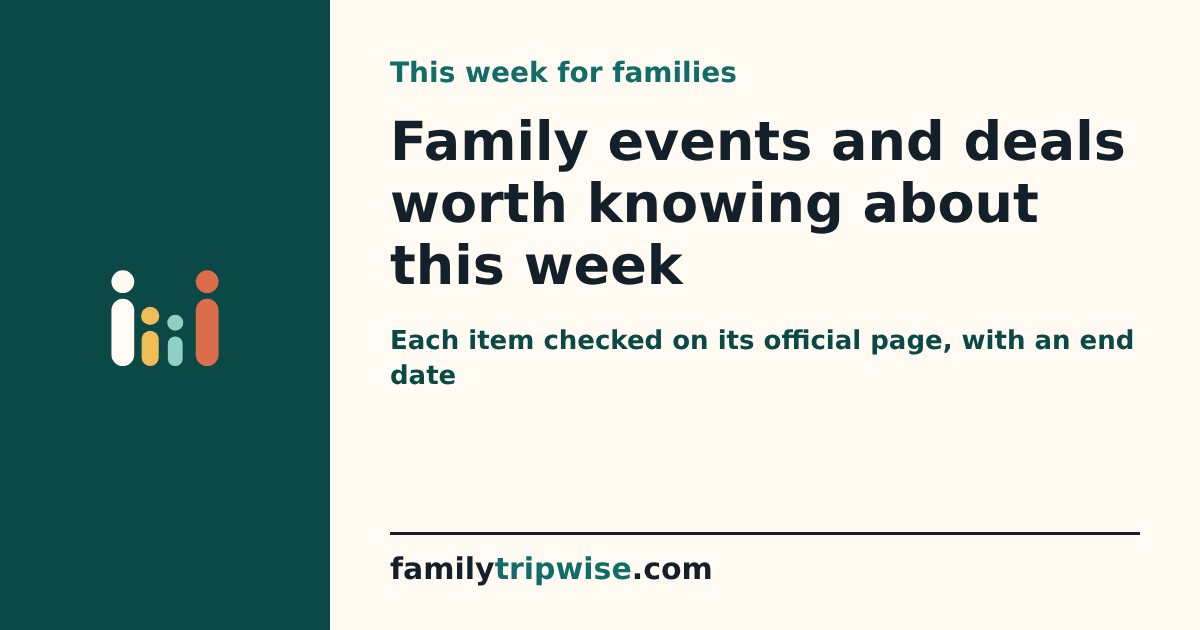
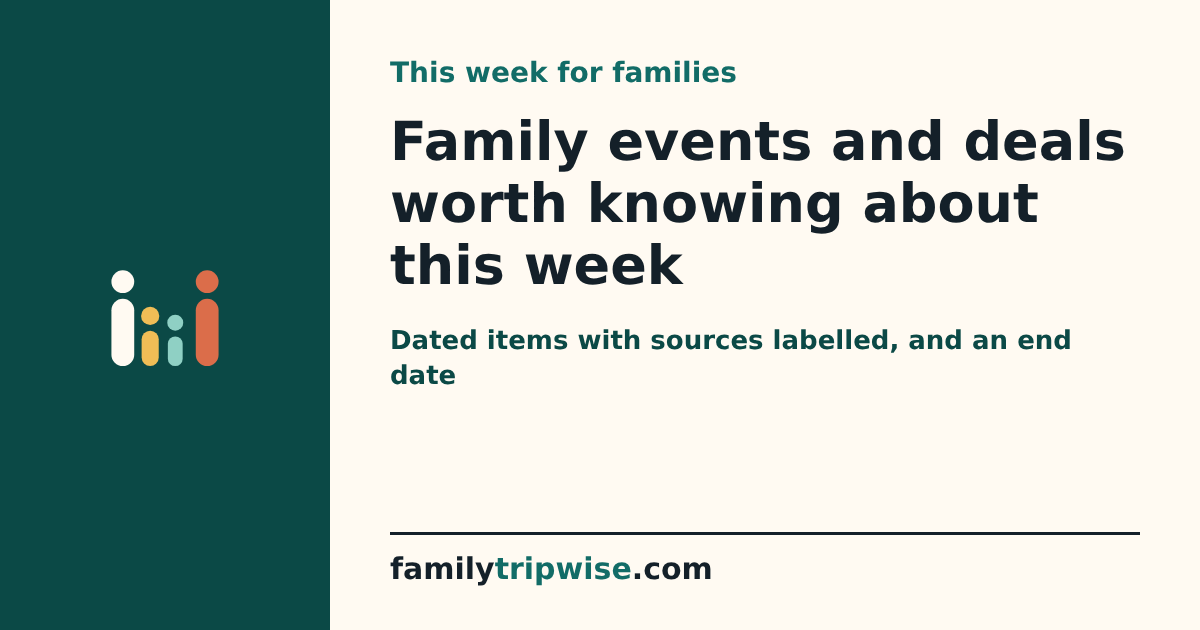
G16: Dyker Heights lights on NYC Christmas page and /this-week/ (third-party labelled); this-week claims now say sources are labelled
Claude-Session: https://claude.ai/code/session_018uWk6vQfyhGcm8KHGVirtx

Changed region(s): [[0.3083, 0.5127, 0.9558, 0.573]]

diff --git a/site/holidays/new-york-city-christmas-with-kids.html b/site/holidays/new-york-city-christmas-with-kids.html
@@ -25,7 +25,7 @@
       <section class="page-hero">
         <div class="container">
           <p class="eyebrow">New York City · Christmas with kids</p>
-          <h1>Christmas in New&nbsp;York&nbsp;City With Kids: 8&nbsp;Outings and What They Cost a Family of 4</h1>
+          <h1>Christmas in New&nbsp;York&nbsp;City With Kids: 9&nbsp;Outings and What They Cost a Family of 4</h1>
           <p>Dates, what's free and ticket costs for 2 adults and 2 kids.</p>
           <p class="contributor-credit">Researched with AI (<a href="../contributors/miles-rowan.html">Miles Rowan</a>) · sources linked and dated · <a href="../about.html">How we check</a></p>
         </div>
@@ -34,7 +34,7 @@
         <p class="holiday-answer-figure"><span>Paid outings: tickets for 4, per outing</span><strong>≈ $88 to $144</strong><small>estimate from published prices for 3 outings, so not Radio City (no price found) or skate rentals; tax, fees or parking can add more.</small></p>
         <ul>
           <li><strong>Our pick for under 6:</strong> <a href="#nybg-train-show">NYBG Holiday Train Show</a>, model trains in a glass conservatory; check the show price for your date</li><li><strong>In December, no ticket listed:</strong> <a href="#rockefeller-tree">Rockefeller Center tree</a>, Dec 2 to Jan 9; end date per NY1</li>
-          <li><strong>Free:</strong> <a href="#vessel-lighting">Vessel holiday lighting</a>, Nov&nbsp;16; <a href="#macys-parade">Macy&#39;s Thanksgiving Day Parade</a>, Nov&nbsp;26</li>
+          <li><strong>Free:</strong> <a href="#vessel-lighting">Vessel holiday lighting</a>, Nov&nbsp;16; <a href="#macys-parade">Macy&#39;s Thanksgiving Day Parade</a>, Nov&nbsp;26; <a href="#dyker-heights-lights">Dyker Heights Christmas lights</a>, from about Nov 27</li>
           <li><strong>Free with your own skates:</strong> <a href="#bryant-park-rink">Bryant Park ice rink</a></li>
           
         </ul>
@@ -47,10 +47,10 @@
       </section>
       <section class="container holiday-news" aria-label="New this season">
         <h2 class="holiday-news-title">New this season</h2>
-        <ul><li><a href="#rockefeller-tree">Meet the Tree Day</a>: free, Nov 7, Care Bears and crafts 10 a.m. to 1 p.m., first come, per Rockefeller Center.</li><li><a href="#bronx-zoo">Bronx Zoo Farmyard</a>: the Children&#39;s Zoo Farmyard opens for the lights, new this year.</li><li><a href="#macys-parade">Macy&#39;s parade</a>: the 100th, Nov 26, with a record 100 inflatables, per NYC Tourism.</li></ul>
+        <ul><li><a href="#dyker-heights-lights">Dyker Heights lights</a>: free to walk in Brooklyn, expected on from Nov 27, turning 40 per a Secret NYC headline.</li><li><a href="#rockefeller-tree">Meet the Tree Day</a>: free, Nov 7, Care Bears and crafts 10 a.m. to 1 p.m., first come, per Rockefeller Center.</li><li><a href="#bronx-zoo">Bronx Zoo Farmyard</a>: the Children&#39;s Zoo Farmyard opens for the lights, new this year.</li><li><a href="#macys-parade">Macy&#39;s parade</a>: the 100th, Nov 26, with a record 100 inflatables, per NYC Tourism.</li></ul>
       </section>
       <section class="container page-section" aria-labelledby="holiday-table-title">
-        <h2 id="holiday-table-title">Compare the 8 outings, free first</h2>
+        <h2 id="holiday-table-title">Compare the 9 outings, free first</h2>
         <div class="holiday-table-wrap">
           <table class="holiday-table holiday-table-city">
             <caption><span>Family of 4: 2 adults + 2 kids, ages 3 to 11. Estimates, not quotes; tax, fees or parking may be added, see each card. Travel and food not counted.</span></caption>
@@ -58,6 +58,7 @@
             <tbody>
               <tr><th scope="row"><a href="#vessel-lighting">Vessel holiday lighting</a><small>Hudson Yards, Manhattan</small><small class="holiday-when-inline">Nov&nbsp;16</small></th><td class="holiday-when">Nov&nbsp;16</td><td class="holiday-cost">Free</td></tr>
               <tr><th scope="row"><a href="#macys-parade">Macy&#39;s Thanksgiving Day Parade</a><small>Central Park West at W 77th St to Herald Square, Manhattan</small><small class="holiday-when-inline">Nov&nbsp;26</small></th><td class="holiday-when">Nov&nbsp;26</td><td class="holiday-cost">Free</td></tr>
+              <tr><th scope="row"><a href="#dyker-heights-lights">Dyker Heights Christmas lights</a><small>Dyker Heights, Brooklyn: around 83rd to 86th Streets, 11th to 13th Avenues</small><small class="holiday-when-inline">From about Nov 27, no official dates</small></th><td class="holiday-when">From about Nov 27, no official dates</td><td class="holiday-cost">Free</td></tr>
               <tr><th scope="row"><a href="#bryant-park-rink">Bryant Park ice rink</a><small>Winter Village, Midtown Manhattan</small><small class="holiday-when-inline">Oct&nbsp;28 to Feb&nbsp;28</small></th><td class="holiday-when">Oct&nbsp;28 to Feb&nbsp;28</td><td class="holiday-cost">Free with your own skates<small>rentals ≈ $75 to $258</small></td></tr>
               <tr><th scope="row"><a href="#rockefeller-tree">Rockefeller Center tree</a><small>Midtown Manhattan</small><small class="holiday-when-inline">Dec&nbsp;2 to Jan&nbsp;9, end date per NY1</small></th><td class="holiday-when">Dec&nbsp;2 to Jan&nbsp;9, end date per NY1</td><td class="holiday-cost">No ticket listed</td></tr>
               <tr><th scope="row"><a href="#lightscape">Lightscape</a><small>Brooklyn Botanic Garden</small><small class="holiday-when-inline">Nov&nbsp;20 to Jan&nbsp;3</small></th><td class="holiday-when">Nov&nbsp;20 to Jan&nbsp;3</td><td class="holiday-cost"><span class="holiday-nowrap">≈ $88 to $144</span></td></tr>
@@ -71,7 +72,7 @@
       </section>
       <section class="container page-section" aria-labelledby="holiday-pick-title">
         <h2 id="holiday-pick-title">Which one fits your kids</h2>
-        <ul class="holiday-picks"><li><strong>Kids under 6:</strong> <a href="#nybg-train-show">NYBG Holiday Train Show</a>. Model trains in a conservatory, with more outdoors, and you can go by day.</li><li><strong>Ages 4 and 8 together:</strong> <a href="#bronx-zoo">Bronx Zoo Holiday Lights</a>. With the 2-in-1 ticket, daytime animals from 1 p.m., then the lights, so each age gets something.</li><li><strong>Keeping tickets at zero:</strong> <a href="#rockefeller-tree">Rockefeller Center tree</a>, <a href="#bryant-park-rink">Bryant Park ice rink</a>. No ticket is listed for the tree. The rink is free only with your own skates.</li><li><strong>Cold or wet day:</strong> <a href="#nybg-train-show">NYBG Holiday Train Show</a>, <a href="#radio-city">Christmas Spectacular</a>. The conservatory trains are indoors, with more outdoors. The show is indoors.</li><li><strong>Free for under-3s:</strong> <a href="#lightscape">Lightscape</a>, <a href="#bronx-zoo">Bronx Zoo Holiday Lights</a>. Lightscape lists ages 0 to 2 free; the zoo, 2 and under.</li><li><strong>Sensory needs:</strong> <a href="#nybg-train-show">NYBG Holiday Train Show</a>, <a href="#lightscape">Lightscape</a>, <a href="#bronx-zoo">Bronx Zoo Holiday Lights</a>. The dates are on the card.</li></ul>
+        <ul class="holiday-picks"><li><strong>Kids under 6:</strong> <a href="#nybg-train-show">NYBG Holiday Train Show</a>. Model trains in a conservatory, with more outdoors, and you can go by day.</li><li><strong>Ages 4 and 8 together:</strong> <a href="#bronx-zoo">Bronx Zoo Holiday Lights</a>. With the 2-in-1 ticket, daytime animals from 1 p.m., then the lights, so each age gets something.</li><li><strong>Keeping tickets at zero:</strong> <a href="#dyker-heights-lights">Dyker Heights Christmas lights</a>, <a href="#rockefeller-tree">Rockefeller Center tree</a>, <a href="#bryant-park-rink">Bryant Park ice rink</a>. Dyker Heights is free to walk. No ticket is listed for the tree. The rink is free only with your own skates.</li><li><strong>Cold or wet day:</strong> <a href="#nybg-train-show">NYBG Holiday Train Show</a>, <a href="#radio-city">Christmas Spectacular</a>. The conservatory trains are indoors, with more outdoors. The show is indoors.</li><li><strong>Free for under-3s:</strong> <a href="#lightscape">Lightscape</a>, <a href="#bronx-zoo">Bronx Zoo Holiday Lights</a>. Lightscape lists ages 0 to 2 free; the zoo, 2 and under.</li><li><strong>Sensory needs:</strong> <a href="#nybg-train-show">NYBG Holiday Train Show</a>, <a href="#lightscape">Lightscape</a>, <a href="#bronx-zoo">Bronx Zoo Holiday Lights</a>. The dates are on the card.</li></ul>
         <p class="holiday-note">Our picks from the published details, not from a visit. We have no crowd data of our own, so we don't name quiet nights.</p>
       </section>
       <section class="container page-section" aria-labelledby="holiday-cards-title">
@@ -101,6 +102,19 @@
             <p><strong>Ticket:</strong> Free to watch, per NYC Tourism.</p>
             <p><strong>Good to know:</strong> NYC Tourism&#39;s page lists no start time or viewing spots. Check Macy&#39;s own page for both before you plan the morning.</p>
             <p class="holiday-source"><a href="https://www.nyctourism.com/events/macys-thanksgiving-day-parade/">NYC Tourism parade page</a> (read Nov 3 unless noted)</p>
+            </details>
+          </article>
+          <article id="dyker-heights-lights" class="holiday-card">
+            <h3>Dyker Heights Christmas lights</h3>
+            <p class="holiday-place">Dyker Heights, Brooklyn: around 83rd to 86th Streets, 11th to 13th Avenues</p>
+            <p class="holiday-figure">Free<small>checked Nov 4</small></p>
+            <p class="holiday-dates"><strong>When:</strong> From about Nov 27; no official dates. Sources put the end between Christmas and early January.</p>
+            <ul><li>Displays on people&#39;s homes, some with music and moving figures, per NYC Tourism</li><li>Lit after dark, about 5 p.m.; most stay on until midnight, some go off as early as 9 p.m., per Secret NYC</li><li>Weeknights are quieter; mid-December weekends, 5 to 9 p.m., are busiest, per Brooklyn Paper</li><li>We found nothing on strollers or restrooms</li></ul>
+            <p><strong>Costs extra:</strong> Optional tours for 4, estimate: walking about $140 ($35 each); bus from Midtown about $300 ($75 a seat, about 4 hours). We saw no lower child price; check when booking.</p>
+            <details class="ds-card-more"><summary>Ticket details, tips and sources</summary>
+            <p><strong>Ticket:</strong> Free to walk the streets, per Brooklyn Paper and Secret NYC. Paid tours are optional.</p>
+            <p><strong>Good to know:</strong> We found no organizer: it&#39;s a neighborhood of private homes, and no official dates. Stay on the sidewalk. Parking is limited. By subway, R to 86 St or D to 79 St, then a 10 to 20 minute walk, sources differ.</p>
+            <p class="holiday-source"><a href="https://www.brooklynpaper.com/dyker-heights-christmas-lights-guide-2025/">Brooklyn Paper 2025 guide (third party)</a> · <a href="https://secretnyc.co/dyker-heights-christmas-lights-brooklyn/">Secret NYC 2025 guide (third party)</a> · <a href="https://www.dykerheightschristmaslights.com/book-now.php">Tour company booking page, first 2026 tour Nov 27</a> · <a href="https://www.nyctourism.com/events/christmas-lights-tour-of-dyker-heights/">NYC Tourism tour listing</a> · <a href="https://away.mta.info/articles/brooklyn-christmas-holidays-dyker-heights-lights-2022/">MTA guide, 2022</a> · <a href="https://secretnyc.co/dyker-heights-christmas-lights-40-years-bryant-park-tour/">Secret NYC, Nov 5 headline only, article not read (third party)</a> (read Nov 4 unless noted)</p>
             </details>
           </article>
           <article id="bryant-park-rink" class="holiday-card">
@@ -197,7 +211,7 @@
         </ul>
       </section>
       <section class="container trust-panel" aria-label="How we check">
-        <p><strong>How we check:</strong> we read organizer or official tourism pages on the date shown, and say so when a fact comes only from a news report. The Rockefeller tree&#39;s Jan 9 end comes from a news report, labelled on that card. The train show price is the garden&#39;s general pass, not a show ticket. We have not been to these events. Family figures add the published prices for 2 adults and 2 kids.</p>
+        <p><strong>How we check:</strong> we read organizer or official tourism pages on the date shown, and say so when a fact comes only from a news report. The Rockefeller tree&#39;s Jan 9 end comes from a news report, labelled on that card. The train show price is the garden&#39;s general pass, not a show ticket. We found no organizer for Dyker Heights, so its dates and free entry come from local reports, labelled on that card. We have not been to these events. Family figures add the published prices for 2 adults and 2 kids.</p>
       </section>
     </main>
     <footer class="site-footer"><p>Family Tripwise uses research-based planning notes. Hotel fees, hours, policies, closures, and transit conditions can change, so verify important details before booking.</p><nav class="guide-directory" aria-label="All family guides"><h2>All family guides</h2><ul><li><span class="guide-directory-city">Chicago:</span> <a href="../things-to-do/chicago-with-kids.html">Things to do with kids</a><span aria-hidden="true"> · </span><a href="../things-to-do/chicago-with-teens.html">Chicago with teens</a><span aria-hidden="true"> · </span><a href="../where-to-stay/chicago-with-kids.html">Where to stay (areas)</a><span aria-hidden="true"> · </span><a href="../where-to-stay/chicago-family-hotels.html">Family hotels</a><span aria-hidden="true"> · </span><a href="../family-itinerary/chicago-with-kids.html">Family itinerary</a></li><li><span class="guide-directory-city">San Antonio:</span> <a href="../things-to-do/san-antonio-with-kids.html">Things to do with kids</a><span aria-hidden="true"> · </span><a href="../things-to-do/san-antonio-with-teens.html">San Antonio with teens</a><span aria-hidden="true"> · </span><a href="../where-to-stay/san-antonio-with-kids.html">Where to stay (areas)</a><span aria-hidden="true"> · </span><a href="../where-to-stay/san-antonio-family-hotels.html">Family hotels</a><span aria-hidden="true"> · </span><a href="../family-itinerary/san-antonio-with-kids.html">Family itinerary</a></li><li><span class="guide-directory-city">San Diego:</span> <a href="../things-to-do/san-diego-with-kids.html">Things to do with kids</a><span aria-hidden="true"> · </span><a href="../things-to-do/san-diego-with-toddlers.html">San Diego with toddlers</a><span aria-hidden="true"> · </span><a href="../things-to-do/san-diego-with-teens.html">San Diego with teens</a><span aria-hidden="true"> · </span><a href="../where-to-stay/san-diego-with-kids.html">Where to stay (areas)</a><span aria-hidden="true"> · </span><a href="../where-to-stay/san-diego-family-hotels.html">Family hotels</a><span aria-hidden="true"> · </span><a href="../family-itinerary/san-diego-with-kids.html">Family itinerary</a></li><li><span class="guide-directory-city">Las Vegas:</span> <a href="../things-to-do/las-vegas-with-kids.html">Things to do with kids</a><span aria-hidden="true"> · </span><a href="../things-to-do/las-vegas-with-teens.html">Las Vegas with teens</a><span aria-hidden="true"> · </span><a href="../where-to-stay/las-vegas-with-kids.html">Where to stay (areas)</a><span aria-hidden="true"> · </span><a href="../where-to-stay/las-vegas-family-hotels.html">Family hotels</a><span aria-hidden="true"> · </span><a href="../family-itinerary/las-vegas-with-kids.html">Family itinerary</a></li><li><span class="guide-directory-city">New York City:</span> <a href="../things-to-do/new-york-city-with-kids.html">Things to do with kids</a><span aria-hidden="true"> · </span><a href="../things-to-do/new-york-city-with-teens.html">New York City with teens</a><span aria-hidden="true"> · </span><a href="../where-to-stay/new-york-city-with-kids.html">Where to stay (areas)</a><span aria-hidden="true"> · </span><a href="../where-to-stay/new-york-city-family-hotels.html">Family hotels</a><span aria-hidden="true"> · </span><a href="../family-itinerary/new-york-city-with-kids.html">Family itinerary</a></li><li><span class="guide-directory-city">Orlando:</span> <a href="../things-to-do/orlando-with-kids.html">Things to do with kids</a><span aria-hidden="true"> · </span><a href="../where-to-stay/orlando-family-hotels.html">Family suite hotels</a></li><li><span class="guide-directory-city">Washington, DC:</span> <a href="../where-to-stay/washington-dc-family-hotels.html">Family hotels</a><span aria-hidden="true"> · </span><a href="../family-itinerary/washington-dc-with-kids.html">Family itinerary</a></li><li><span class="guide-directory-city">Boston:</span> <a href="../where-to-stay/boston-family-hotels.html">Family hotels</a><span aria-hidden="true"> · </span><a href="../family-itinerary/boston-with-kids.html">Family itinerary</a></li><li><span class="guide-directory-city">London:</span> <a href="../where-to-stay/london-family-hotels.html">Family hotels and apartments</a></li><li><span class="guide-directory-city">Cancun:</span> <a href="../where-to-stay/cancun-family-resorts.html">Family resorts</a></li><li><span class="guide-directory-city">Puerto Vallarta:</span> <a href="../where-to-stay/puerto-vallarta-family-resorts.html">Family resorts</a></li></ul></nav><p class="footer-links"><a href="../about.html">How our family travel guides are built</a><span aria-hidden="true"> · </span><a href="../privacy.html">Privacy</a><span aria-hidden="true"> · </span><a href="../terms.html">Terms</a></p></footer>

diff --git a/site/this-week/index.html b/site/this-week/index.html
@@ -4,18 +4,18 @@
     <meta charset="utf-8">
     <meta name="viewport" content="width=device-width, initial-scale=1">
     <title>Family Events and Deadlines This Week, by City | Family Tripwise</title>
-    <meta name="description" content="Dated family events, ticket deadlines and news by city, each checked on its official page with the date we checked it. Items drop off when they end.">
+    <meta name="description" content="Dated family events, ticket deadlines and news by city, each with the date we checked it and labelled when it does not come from an official page. Items drop off when they end.">
     <link rel="canonical" href="https://familytripwise.com/this-week/">
     <meta property="og:type" content="article">
     <meta property="og:site_name" content="Family Tripwise">
     <meta property="og:title" content="Family Events and Deadlines This Week, by City | Family Tripwise">
-    <meta property="og:description" content="Dated family events, ticket deadlines and news by city, each checked on its official page with the date we checked it. Items drop off when they end.">
+    <meta property="og:description" content="Dated family events, ticket deadlines and news by city, each with the date we checked it and labelled when it does not come from an official page. Items drop off when they end.">
     <meta property="og:url" content="https://familytripwise.com/this-week/">
     <meta property="og:image" content="https://familytripwise.com/images/og/this-week.png">
     <meta property="og:image:type" content="image/png">
     <meta property="og:image:width" content="1200">
     <meta property="og:image:height" content="630">
-    <meta property="og:image:alt" content="This week from Family Tripwise: dated family events and deals, checked on official pages">
+    <meta property="og:image:alt" content="This week from Family Tripwise: dated family events and deals, with sources labelled">
     <meta name="twitter:card" content="summary_large_image">
     <link rel="stylesheet" href="../styles.css">
   </head>
@@ -31,7 +31,7 @@
         </div>
       </section>
       <section id="this-week-answer" class="container answer-box" aria-label="Coming up first">
-        <p class="fresh-jump"><strong>By city:</strong> <a href="#chicago">Chicago (3)</a> <a href="#san-antonio">San Antonio (2)</a> <a href="#san-diego">San Diego (1)</a> <a href="#new-york-city">NYC (4)</a> <a href="#orlando">Orlando (5)</a> <a href="#washington-dc">Washington DC (4)</a> <a href="#boston">Boston (3)</a> <a href="#london">London, UK (2)</a></p>
+        <p class="fresh-jump"><strong>By city:</strong> <a href="#chicago">Chicago (3)</a> <a href="#san-antonio">San Antonio (2)</a> <a href="#san-diego">San Diego (1)</a> <a href="#new-york-city">NYC (5)</a> <a href="#orlando">Orlando (5)</a> <a href="#washington-dc">Washington DC (4)</a> <a href="#boston">Boston (3)</a> <a href="#london">London, UK (2)</a></p>
         <p><strong>Coming up first:</strong></p>
         <ul class="fresh-upcoming"><li><span class="fresh-up-when">November 7 · New York City</span> <a href="#nyc-rockefeller-meet-the-tree-2026">Rockefeller Center tree arrives: free Meet the Tree Day</a> <span class="fresh-up-cost">Free, first come, first served.</span></li><li><span class="fresh-up-when">November 7 · Orlando</span> <a href="#orlando-fall-fiesta-2026">Fall Fiesta in the Park, Orlando: free at Lake Eola this weekend</a> <span class="fresh-up-cost">Free. That covers entry; kids&#39; play area, food and parking prices aren&#39;t listed.</span></li><li><span class="fresh-up-when">November 8 · Orlando</span> <a href="#orlando-very-merry-party-2026">Mickey&#39;s Very Merry Christmas Party: 25 nights at Magic Kingdom</a> <span class="fresh-up-cost">$189 to $229 per ticket plus tax, by date; kids 3-9 $10 less (family of 4: $736-$896 before tax, est.).</span></li><li><span class="fresh-up-when">November 11 · New York City</span> <a href="#nyc-veterans-day-parade-2026">NYC Veterans Day Parade on Fifth Avenue</a> <span class="fresh-up-cost">Free to watch, per UCLA&#39;s Operation Mend.</span></li></ul>
         <p class="fresh-jump"><strong>Shopping the sales?</strong> <a href="../deals/black-friday-family-travel-deals.html">Black Friday family travel deals, priced for a family of 4</a></p>
@@ -253,6 +253,25 @@
                 </dl>
               </details>
               <p class="review-label">Official page, checked October 28, 2026: <a href="https://bronxzoo.com/holiday-lights">Bronx Zoo Holiday Lights page</a>.</p>
+            </article>
+            <article class="detail-card fresh-item" id="nyc-dyker-heights-lights-2026">
+              
+              <h3>Dyker Heights Christmas lights, Brooklyn: free to walk</h3>
+              <dl class="fresh-facts">
+                <div><dt>When</dt><dd>From about Nov 27. Best after dark, about 5 p.m.</dd></div>
+                <div class="fresh-cost"><dt>Cost</dt><dd>Free to walk.</dd></div>
+                <div><dt>Good to know</dt><dd>Weeknights are quieter. We found nothing on strollers or restrooms.</dd></div>
+              </dl>
+              <details class="fresh-more">
+                <summary>Full details<span class="fresh-sr">: Dyker Heights Christmas lights, Brooklyn: free to walk</span></summary>
+                <dl class="fresh-facts">
+                  <div><dt>When</dt><dd>Expected from about Friday, November 27, 2026. Sources put the end between Christmas and early January. Best after dark, from about 5 p.m.; some homes switch off as early as 9 p.m.</dd></div>
+                  <div><dt>Cost</dt><dd>Free to walk. Optional tours for a family of 4, estimate: walking about $140 ($35 each), bus from Midtown about $300 ($75 a seat). We saw no lower child price; check when booking.</dd></div>
+                  <div><dt>Booking</dt><dd>No ticket to walk it. Tours book on the company&#39;s page; its first 2026 tour is November 27.</dd></div>
+                  <div><dt>Family note</dt><dd>Weeknights are quieter; mid-December weekends from 5 to 9 p.m. are busiest. Around 83rd to 86th Streets, 11th to 13th Avenues; R to 86 St or D to 79 St, then a 10 to 20 minute walk. It&#39;s a street of private homes, so stay on the sidewalk. We found nothing on strollers or restrooms.</dd></div>
+                </dl>
+              </details>
+              <p class="fresh-third-party"><strong>Not yet confirmed officially:</strong> We found no organizer or official 2026 dates. The start comes from a tour company and a Secret NYC headline; the guides describe last season.</p><p class="review-label">Third-party report, read November 4, 2026: <a href="https://secretnyc.co/dyker-heights-christmas-lights-brooklyn/">Secret NYC guide</a>, <a href="https://www.brooklynpaper.com/dyker-heights-christmas-lights-guide-2025/">Brooklyn Paper guide</a>, <a href="https://www.dykerheightschristmaslights.com/book-now.php">tour company page</a>, <a href="https://secretnyc.co/dyker-heights-christmas-lights-40-years-bryant-park-tour/">Secret NYC headline (article not read)</a>.</p>
             </article>
           </div>
           <p class="fresh-guide-link">Planning the trip itself? <a href="../things-to-do/new-york-city-with-kids.html">NYC: things to do with kids</a> · <a href="#this-week-answer">Back to cities</a></p>
@@ -552,7 +571,7 @@
         <details class="fresh-more">
           <summary>How we check these</summary>
           <p>Every date, price and booking rule comes from the official or tourism-board page linked on its card, on the date shown; a card says so when a fact comes from another source. Family notes are our planning suggestions, not firsthand experience.</p>
-          <p>Items leave this page automatically after their last date. Times, prices and availability change: confirm on the official page before you go or book.</p>
+          <p>Items leave this page automatically after their last date. Times, prices and availability change: confirm with the organizer before you go or book.</p>
         </details>
       </section>
     </main>

diff --git a/docs/research/this-week-items-2026-11-05.md b/docs/research/this-week-items-2026-11-05.md
@@ -18,3 +18,18 @@ Estimate: 4 grandstand seats $28 x 4 = $112; $45 x 4 = $180. Not checked: hotel 
 | orlando.gov/Events/2026-Fall-Fiesta-in-the-Park (official) | 55th annual; Nov 7-8, 2026, 10 a.m.-5 p.m.; Lake Eola Park; free admission; no tickets or play-area ages mentioned; "huge kids' play area"; artists, live entertainment, food vendors; family and pet friendly; road closures page lists it, details unread; strollers and parking not mentioned | new |
 | fiestainthepark.com/faq (organizer) | Links to city garages and lots, no rates; kid-friendly activities with CMG stations, no cost stated either way; pet friendly; no year named except first full weekend in November | new |
 | makerfaireorlando.com/attend, /schedule, events.humanitix.com/makerfaireorlando (organizer) | Nov 7-8, 10-5, Central Florida Fairgrounds; on-site parking free; strollers allowed; robots, workshops; adult and child ticket prices not shown in text | new; alternative line only |
+
+# Dyker Heights Christmas lights, read 2026-11-04 ET (trend flag t-21ad9ba44f; the Secret NYC article refused the fetcher, headline only, no retry)
+
+| Source | Observed value | Change |
+|---|---|---|
+| dykerheightschristmaslights.com/book-now.php (tour company, not an organizer of the lights) | "first tour date is November 27th" for 2026; bus $75 a seat, ~4 h, from near 5th Ave and E 41st; walking $35 a person, ~90 min; preferred seating +$10; no separate lower child price read | new |
+| brooklynpaper.com/dyker-heights-christmas-lights-guide-2025 (third party, undated, after 2023) | Late Nov or early Dec to Christmas, sometimes early Jan; 10th-13th Aves, 83rd-86th Sts; free to walk; R to 86 St or D to 79 St, 10-15 min walk; parking limited; busiest mid-Dec weekends 5-9 p.m., weeknights quieter; etiquette; no stroller or restroom note | new |
+| secretnyc.co/dyker-heights-christmas-lights-brooklyn (third party, updated Nov 25, 2025) | After Thanksgiving to about New Year's Eve; free; after 5 p.m.; most lights to midnight, some off as early as 9 p.m.; 83rd-86th, 11th-13th; about 1.5 h to walk; 100,000+ visitors | new |
+| away.mta.info 2022 article (official, old) | R and D, about a 20-minute walk; bus transfer possible | new |
+| mta.info 2024 release (official, old) | "Ongoing"; B16, B1, B4 buses; subway line letter missing from the text; buses not published | not used on page |
+| nyctourism.com/events/christmas-lights-tour-of-dyker-heights (official, undated) | 100,000+ visitors; music and animatronic displays; A Slice of Brooklyn tour; no price | new |
+
+Estimates: 4 x $35 = $140; 4 x $75 = $300. Not used: third-party "2026 guide" sites with unsourced dates; A Slice of Brooklyn price (2015 only). We found no organizer, so the item is third_party: true and gets no post.
+
+Secret NYC feed headline (trend flag, published 2026-11-05T00:00Z; article not read): "Brooklyn's most famous Christmas lights turn 40 this year, and they're expected to switch on the day after Thanksgiving". Brooklyn Paper's "2025" comes from its URL; the page is undated.
